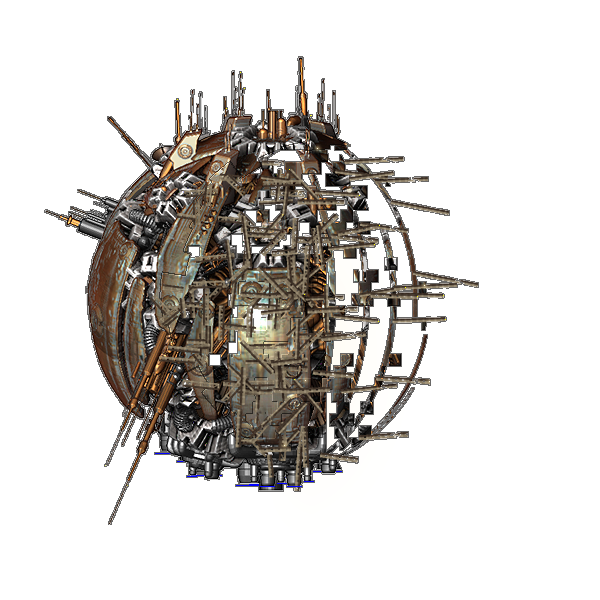
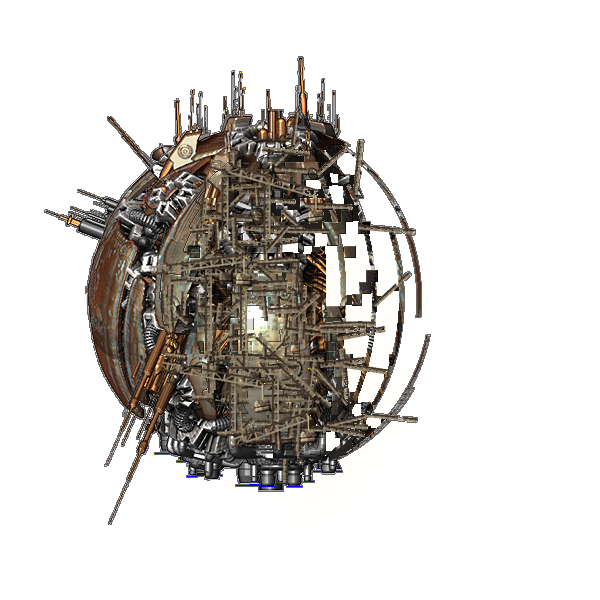
The Purifier: a yard in mid-construction, dense next to the crescent, thinning out slowly to the right
- The construction right of the crescent now falls off slowly and evenly (density linear across the ship): next
  to the plating dense scaffolding (more girders, packed tight), three gantry frames with cabs, four construction
  cranes on the plating's inner edge with panels hanging off their jibs, plating panels in place and others still
  being fitted (shifted, with a shadow), dark interior decks behind, more work lights; further right fewer girders,
  only a few girder ends reaching into empty space at the far right.
- No more black squares in the framework: the dark outline is drawn only on the outside of the silhouette, and
  small enclosed gaps are filled with dark metal (larger openings still show space and the core's glow).
- Still one connected structure (the art test checks it); 1.5x draw scale, markers and colours unchanged.

Checks: in-game screenshots (headless Chromium, ANGLE/Vulkan), test:fast 439 files / 4564 tests passed, repin
--check 0 changes.

Claude-Session: https://claude.ai/code/session_018gRCCNRXkGQBY7nz8HA5Pf

Changed region(s): [[0.24, 0.18, 0.81, 0.84]]

diff --git a/game/scripts/purifier-ships.py b/game/scripts/purifier-ships.py
@@ -11,10 +11,12 @@ purifierArtUrl draws them for the Purifier faction's escorts and guards by subRo
 station - and base_0 for any other base of the faction, planetdestroyer for the Purifier itself). The Purifier (its
 planet destroyer) is a crescent: the stock other/planetdestroyer.png sphere kept exact and solid as a thin crescent
 hugging its left edge and curving round top and bottom (its colours, spikes, markers), the glowing core plate at the
-crescent's inner edge; right of it a half-built construction whose density falls off across the ship - a dense
-scaffold next to the plating (stock plating and machinery still on in panels, girders packed tight, partial ribs),
-sparser toward the right, the last girder ends reaching into empty space - all one connected structure, as the ship
-moves (build_purifier); threatArt.ts draws it 1.5x (PURIFIER_VISUAL_SCALE).
+crescent's inner edge; right of it a yard in mid-construction whose density falls off slowly and evenly across the
+ship - next to the plating dense scaffolding (girders packed tight, gantry frames with cabs, construction cranes with
+panels hanging off their jibs, plating panels in place and others still being fitted, dark interior decks behind,
+work lights), sparser toward the right, only a few girder ends reaching into empty space at the far right - all one
+connected structure, as the ship moves; small enclosed gaps filled with dark metal (build_purifier); threatArt.ts
+draws it 1.5x (PURIFIER_VISUAL_SCALE).
 
     python3 -I scripts/purifier-ships.py [--dwu <DW:U install>] [--out public/art/purifier] [--preview <dir>]
         [--only frigate,base_1]
@@ -1667,13 +1669,21 @@ def build_purifier(root, xs, cols, rng):
     xin = icx - np.sqrt(np.clip(PD_IR ** 2 - (yy - icy) ** 2, 0, None))
     xr = cx + np.sqrt(np.clip(PD_R ** 2 - (yy - cy) ** 2, 0, None))
     u = np.clip((xx - xin) / np.maximum(xr - xin, 1), 0, 1)
-    dens = (1 - u) ** 0.75
+    dens = 1 - u  # a slow, even falloff
     # partial plating: the stock hull left on in panels (12 px cells, jittered rows), dense near the plating
     cell = 12
     cj = ((yy // cell).astype(int) * 7) % cell
     cid = ((yy // cell).astype(int) * 997 + ((xx + cj) // cell).astype(int)) % 4096
     ch = rng.random(4096)
-    panels = hollow & (rr < PD_R) & (ch[cid] < dens * 1.02 - 0.06)
+    panels = hollow & (rr < PD_R) & (ch[cid] < dens * 0.95 - 0.04)
+    # behind the construction, the inside of the hull: decks and bulkheads in dark metal, in larger cells, solid near
+    # the plating and fewer toward the right (so the gaps between panels show dark structure there, space further on)
+    cell2 = 18
+    cid2 = ((yy // cell2).astype(int) * 613 + ((xx + ((yy // cell2).astype(int) * 5) % cell2) // cell2).astype(int)) % 4096
+    ch2 = rng.random(4096)
+    backing = hollow & (rr < PD_R * 0.985) & (ch2[cid2] < (dens - 0.3) / 0.45)
+    # panels being fitted: some near the plating not yet in place (shifted a few px, a shadow under them)
+    fitting = panels & (ch[cid] < dens * 0.25) & (dens > 0.45)
     # partial ribs: bare frames (projected meridians) part of their length, thinner toward the right
     ribs = np.zeros((H0, W0), bool)
     dy = np.clip((yy - cy) / PD_R, -1, 1)
@@ -1687,13 +1697,21 @@ def build_purifier(root, xs, cols, rng):
     rx, ry = cx + ux * PD_R * 0.97, cy + uy * PD_R * 0.97
     root_hollow = np.hypot(rx - icx, ry - icy) < PD_IR - 6
     outside = rr > PD_R
-    keep = (~hollow & ~(outside & root_hollow)) | core | ribs | panels
+    keep = (~hollow & ~(outside & root_hollow)) | core | ribs | panels | backing
     keep &= ~(outside & (xx > cx + 20) & root_hollow)
     a = src[..., 3] * keep
     rgb = src[..., :3].copy()
     # panel edges crisp: lit top / left rims, dark bottom / right, the panels a little darker than the plating
+    bk = backing & ~panels & ~ribs & ~core
+    rgb[bk] = src[..., :3][bk] * 0.42 + 0.03  # dark interior metal
+    a = np.where(bk, 1.0, a)
+    deck = bk & ((yy.astype(int) % 9) == 0)
+    rgb[deck] = rgb[deck] * 1.8 + 0.03
     pm = panels & (src[..., 3] > 0.5)
     rgb[pm] *= 0.86
+    fy_, fx_ = np.nonzero(fitting & (src[..., 3] > 0.5))
+    rgb[np.clip(fy_ + 3, 0, H0 - 1), np.clip(fx_ + 3, 0, W0 - 1)] *= 0.55  # its shadow on what is behind
+    rgb[fy_, fx_] = np.clip(src[np.clip(fy_ - 3, 0, H0 - 1), np.clip(fx_ - 2, 0, W0 - 1), :3] * 0.95 + 0.03, 0, 1)
     pl = pm & ~(shift(pm, 1, 0) & shift(pm, 0, 1))
     rgb[pl] = np.clip(rgb[pl] * 1.35 + 0.04, 0, 1)
     pd_ = pm & ~(shift(pm, -1, 0) & shift(pm, 0, -1))
@@ -1724,12 +1742,12 @@ def build_purifier(root, xs, cols, rng):
     tips = []
     base = (a > 0.5) & hollow
     ys_b, xs_b = np.nonzero(base)
-    for k in range(170):
+    for k in range(230):
         i_ = int(rng.integers(len(ys_b)))
         y0, x0 = ys_b[i_], xs_b[i_]
         d0 = dens[y0, x0]
         uu = u[y0, x0]
-        if rng.random() > 0.35 + 0.65 * d0 and uu < 0.8:
+        if rng.random() > 0.08 + 0.92 * d0:
             continue
         # scaffolding, not a heap: mostly level and upright members, some braces at 45 deg
         r_ = rng.random()
@@ -1739,9 +1757,9 @@ def build_purifier(root, xs, cols, rng):
             phi = float(rng.uniform(82, 98) * (1 if rng.random() < 0.5 else -1))
         else:
             phi = float(rng.choice([45, -45, 135, -135]) + rng.uniform(-6, 6))
-        if uu > 0.6:
-            phi = float(rng.uniform(-12, 12))  # the far ones reach out to the right
-        ln = rng.uniform(16, 34) + 36 * uu
+        if uu > 0.6 and rng.random() < 0.5:
+            phi = float(rng.uniform(-20, 20))  # some of the far ones reach out to the right
+        ln = rng.uniform(12, 28) + 44 * uu
         wd = max(4.0, rng.uniform(5, 8) * (1 - 0.35 * uu))
         th = math.radians(phi)
         gx0, gy0 = x0 + ox, y0 + oy
@@ -1751,6 +1769,36 @@ def build_purifier(root, xs, cols, rng):
               shadow=0.3, marks=False, mat='thin', gain=0.85)
         if uu > 0.5 and cut_ is None:
             tips.append((ex, ey))
+    # the yard's machinery next to the plating: gantry frames straddling the work (two towers and a bridge with its
+    # cab), construction cranes on the plating's inner edge with a panel hanging off each jib
+    def xin_at(y):
+        return icx - math.sqrt(max(0.0, PD_IR ** 2 - (y - icy) ** 2)) + ox
+
+    def beam(x0, y0, phi, ln, wd):
+        th = math.radians(phi)
+        ex, ey = x0 + math.cos(th) * ln, y0 + math.sin(th) * ln
+        c.put(truss(int(wd), int(ln), rail=2, bay=int(wd) + 2), (x0 + ex) / 2, (y0 + ey) / 2, rot=90 - phi, shadow=0.35,
+              marks=False, mat='thin', gain=0.9)
+        return ex, ey
+
+    for (yc_, du, h_) in ((-95, 26, 70), (10, 40, 84), (100, 30, 64)):
+        gy0 = cy + yc_ + oy
+        x1 = xin_at(cy + yc_) + du
+        x2 = x1 + rng.uniform(34, 46)
+        beam(x1, gy0 + h_ / 2, -90, h_, 7)
+        beam(x2, gy0 + h_ / 2, -90, h_ * rng.uniform(0.75, 1.0), 7)
+        beam(x1 - 4, gy0 - h_ / 2 + 4, 0, x2 - x1 + 8, 8)
+        c.put(plate(14, 10, chamfer=0.1, seams=()), (x1 + x2) / 2, gy0 - h_ / 2 + 10, shadow=0.4, marks=False, mat='gun')
+    for (yc_, phi, ln) in ((-130, 16, 92), (-30, -8, 80), (70, 10, 86), (140, -20, 70)):
+        bx = xin_at(cy + yc_) - 4
+        by = cy + yc_ + oy
+        c.put(dome(5.5), bx, by, shadow=0.4, marks=False, mat='gun')
+        ex, ey = beam(bx, by, phi, ln, 9)
+        beam(bx, by, phi + 180, ln * 0.22, 9)
+        c.put(antenna(16, w=2.2, bars=(), rings=(), light=False), ex - 2, ey + 9, shadow=0.2, flipy=True)
+        c.put(plate(16, 12, chamfer=0.15, seams=(0.5,)), ex - 2, ey + 22, rot=float(rng.uniform(-12, 12)), shadow=0.45,
+              marks=False)
+        tips.append((ex, ey))
     L, A, _, T, M = c.result()
     sc, _ = paint(L, A, T, M, xs, cols, SS)
     A = np.clip(down(A, S_, S_), 0, 1)
@@ -1778,16 +1826,25 @@ def build_purifier(root, xs, cols, rng):
     al = al + gl
     out = np.clip(out / np.maximum(al, 1e-6)[..., None] * (al > 0)[..., None], 0, 1)
     # work lights on the framework
-    fr = body & (gx > PD_CORE[0] + ox)
-    for (ly, lx) in pick_points(rng, fr, 8, 30):
+    fr = body & (gx > PD_CORE[0] + ox - 60) & (gx < PD_CORE[0] + ox + 120)
+    for (ly, lx) in pick_points(rng, fr, 14, 22):
         dd = np.hypot(gx - lx, gy - ly)
         gw = np.clip(1 - dd / 6, 0, 1) ** 2 * 0.6 * (al > 0.5)
         out = out * (1 - gw[..., None]) + np.array([1.0, 0.9, 0.65]) * gw[..., None]
         out[ly, lx] = (1.0, 0.98, 0.9)
     solid = al > 0.5
-    ring_ = dilate(solid, 1) & ~solid & (al < 0.3)
+    border = np.zeros((S_, S_), bool)
+    border[0, :] = border[-1, :] = border[:, 0] = border[:, -1] = True
+    exterior = connected_to(border, ~solid)
+    ring_ = dilate(solid, 1) & ~solid & (al < 0.3) & exterior
     out[ring_] = np.array([0.025, 0.02, 0.016])
     al[ring_] = np.maximum(al[ring_], 0.6)
+    # small enclosed gaps in the framework: dark metal, not black holes
+    gaps = ~solid & ~exterior
+    big = dilate(~dilate(~gaps, 3), 4)  # what survives an opening of 3 px: real openings, left to show space / glow
+    gaps &= ~big
+    out[gaps] = out[gaps] * al[gaps][:, None] + np.array([0.09, 0.08, 0.07]) * (1 - al[gaps][:, None])
+    al[gaps] = 1.0
     res = np.zeros((S_, S_, 4), np.uint8)
     res[..., :3] = np.round(out * 255)
     res[..., 3] = np.round(np.clip(al, 0, 1) * 255)

diff --git a/game/docs/release-notes.md b/game/docs/release-notes.md
@@ -4,7 +4,7 @@ Notes for the next release, to copy into the GitHub release (RELEASING.md step 2
 
 ## Unreleased
 
-- **The Purifier: war-forged escorts and a ruined dock.** The Purifier's escorts and guards (escort, frigate, destroyer, cruiser, capital ship, carrier, troop transport) have new art in the planet destroyer's own colours (silver and champagne plating, pale-gold and copper trim, dark steel machinery), so they read as its fleet. Each is two to four existing hulls fused into one ship, keeping their detailed paintwork, so none looks like an existing race's ship. They are long, lean warships with their hulls joined end to end, tapering bows and broad flared engine sections, larger on screen than the ordinary warships of their class (the capital ship the longest, with heavy sponsons amidships), and the carrier is a banana-curved hull with its landing deck (landing lanes, landing lights, hangar lifts) running along the curve. Like the destroyer's spikes, thin antennas, whips, small dishes and fins stick out all round them, each mounted on the hull, with blinking lights on some of the tips. They are battered by ages of fighting: missing hull plates showing the ribbed frame inside, gouges, impact craters, scorch, melted edges, gunmetal and steel plates welded over old holes and chipped edges. Brighter edges, darker recesses and a thin dark outline keep them readable at normal zoom and against nebulae. Its dock is now a half-ruined shipyard in the same metal, with masts and lights of its own: an empty cradle ring where the Purifier slept, clamp arms reaching in (one snapped off and drifting), broken gantries and scaffold arms, and debris floating around it; its other stations match. The Purifier itself is now half-built: a crescent of its familiar sphere, solid on the left and curving round top and bottom, and to the right of it a construction that gets sparser across the ship (dense scaffolding, plating panels and girders next to the hull, thinning out until the last girder ends reach into empty space at the right), all of one piece, its core glowing through the framework, with blinking lights on girder tips; it is drawn larger than before so it stays the most imposing ship of its fleet. Looks only: nothing in the game rules changes.
+- **The Purifier: war-forged escorts and a ruined dock.** The Purifier's escorts and guards (escort, frigate, destroyer, cruiser, capital ship, carrier, troop transport) have new art in the planet destroyer's own colours (silver and champagne plating, pale-gold and copper trim, dark steel machinery), so they read as its fleet. Each is two to four existing hulls fused into one ship, keeping their detailed paintwork, so none looks like an existing race's ship. They are long, lean warships with their hulls joined end to end, tapering bows and broad flared engine sections, larger on screen than the ordinary warships of their class (the capital ship the longest, with heavy sponsons amidships), and the carrier is a banana-curved hull with its landing deck (landing lanes, landing lights, hangar lifts) running along the curve. Like the destroyer's spikes, thin antennas, whips, small dishes and fins stick out all round them, each mounted on the hull, with blinking lights on some of the tips. They are battered by ages of fighting: missing hull plates showing the ribbed frame inside, gouges, impact craters, scorch, melted edges, gunmetal and steel plates welded over old holes and chipped edges. Brighter edges, darker recesses and a thin dark outline keep them readable at normal zoom and against nebulae. Its dock is now a half-ruined shipyard in the same metal, with masts and lights of its own: an empty cradle ring where the Purifier slept, clamp arms reaching in (one snapped off and drifting), broken gantries and scaffold arms, and debris floating around it; its other stations match. The Purifier itself is now half-built: a crescent of its familiar sphere, solid on the left and curving round top and bottom, and to the right of it a yard in the middle of construction that slowly thins out across the ship (dense scaffolding, gantries, cranes lifting plates, panels being fitted and work lights next to the hull, fewer and fewer girders further right until only a few girder ends reach into empty space), all of one piece, its core glowing through the framework, with blinking lights on girder tips; it is drawn larger than before so it stays the most imposing ship of its fleet. Looks only: nothing in the game rules changes.
 - **Mothball slot: left-click opens the port list.** On the selection panel, clicking Mothball now lists your space ports (best one first, marked ★) instead of sending the force straight to the best port, as the Fleets and Ships screens already did. Reactivate and Cancel still act at once.
 - **Crisis interactions: reputation, opportunists, the council, Purifier refugees.** The loose crisis factions (the Purifier, the Cult, the Hive, Generation Ships, and the Grey Tide, Ghost Armada, Dark Farms, Robot Mutiny, Hollow Fleet and Probe Swarm) now draw reactions from the rest of the galaxy, with no new screens: (1) *Reputation* (needs the Reputation add-on): an empire that fights a crisis (kills its ships, loses ships to it, keeps shooting at it) earns a small, once-only +3 regard from every empire that has met it and is not at war with it; an empire that sits a crisis out for two years (once the faction has hurt someone) while it is within three sectors of its colonies loses 2 with the same empires; both fade by 1 a year, and a human empire is told. (2) *Opportunists*: when a crisis hits an empire (a colony risen to the faction, invaded or destroyed) and a rival that was not already at war with it declares war on it within 180 days, both empires get a message ("X takes advantage of the Cult rising in Y"), the whole galaxy gets a news line (so the event log has it), and, with Reputation on, the victim's regard for the rival drops by 3. It only reports what the stock AI does. (3) *The Galactic Council* (and the Interstellar Diet) can table, through its existing motion kinds, declaring a loose crisis faction a threat to the galaxy (the joint defence; once passed, AI members that have met a non-pirate faction declare war on it, a joint war), sanctioning it (non-pirate factions), and condemning an empire seen helping it (the exposed waker of the Purifier, or a treaty partner of the faction). Only in a game with a council. (4) *Purifier refugees*: when the Purifier destroys a populated colony, 20% of each race survives and flees to the nearest colonies (the owner's own first, then neighbours not at war with it): as ordinary refugee convoys when Refugees & Demographics is on, otherwise at once. Receiving colonies keep the people as extra population and take a crowding hit on approval (up to -4, fading over 18 months).
 - **Void Whale: the Leviathan's fins and flukes join its body cleanly.** The dark notch and the black strip along the body's edge under the pectoral fins are gone (the edge there was filled with keyed-out background), and the hard straight seam where each fin met the body is now a soft join: the flank's hide runs into the fin's base and swells over it, matching in texture, colour, lighting and weathering. The fins carry a deeper strip of hide under their roots, so no gap or dark sliver opens as they row forward and back, and the flukes' stalk now matches the body's shading where they join and stays inside the stalk through the whole tail stroke. The harpoons and wounds are unchanged. Art only (regenerated by scripts/leviathan-parts.py).
